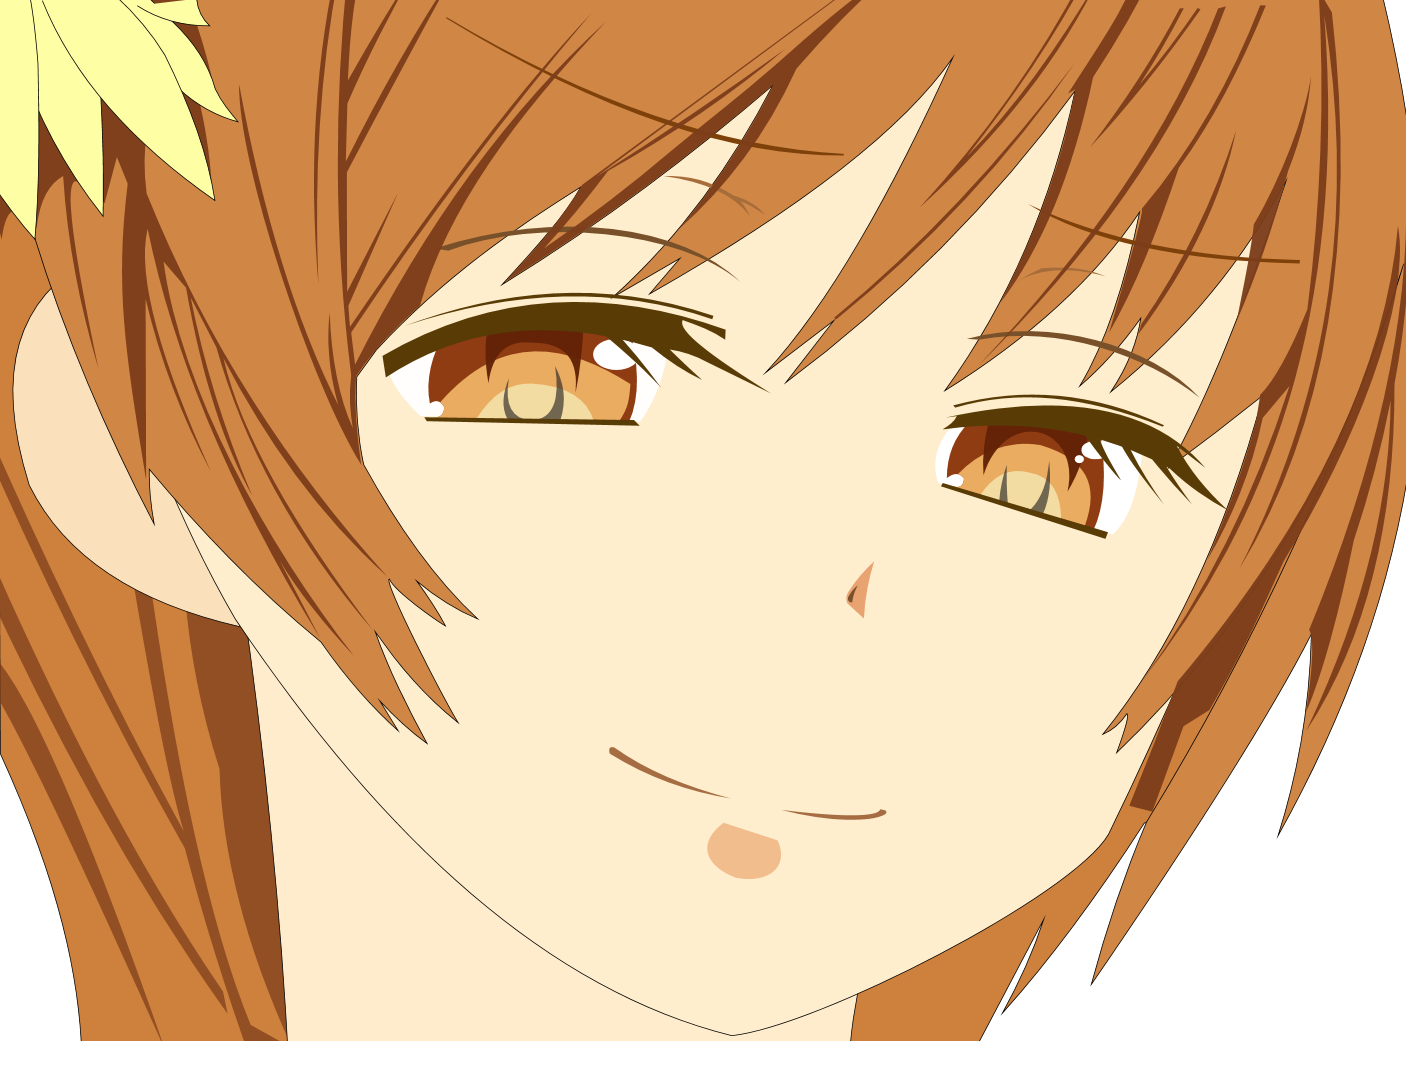
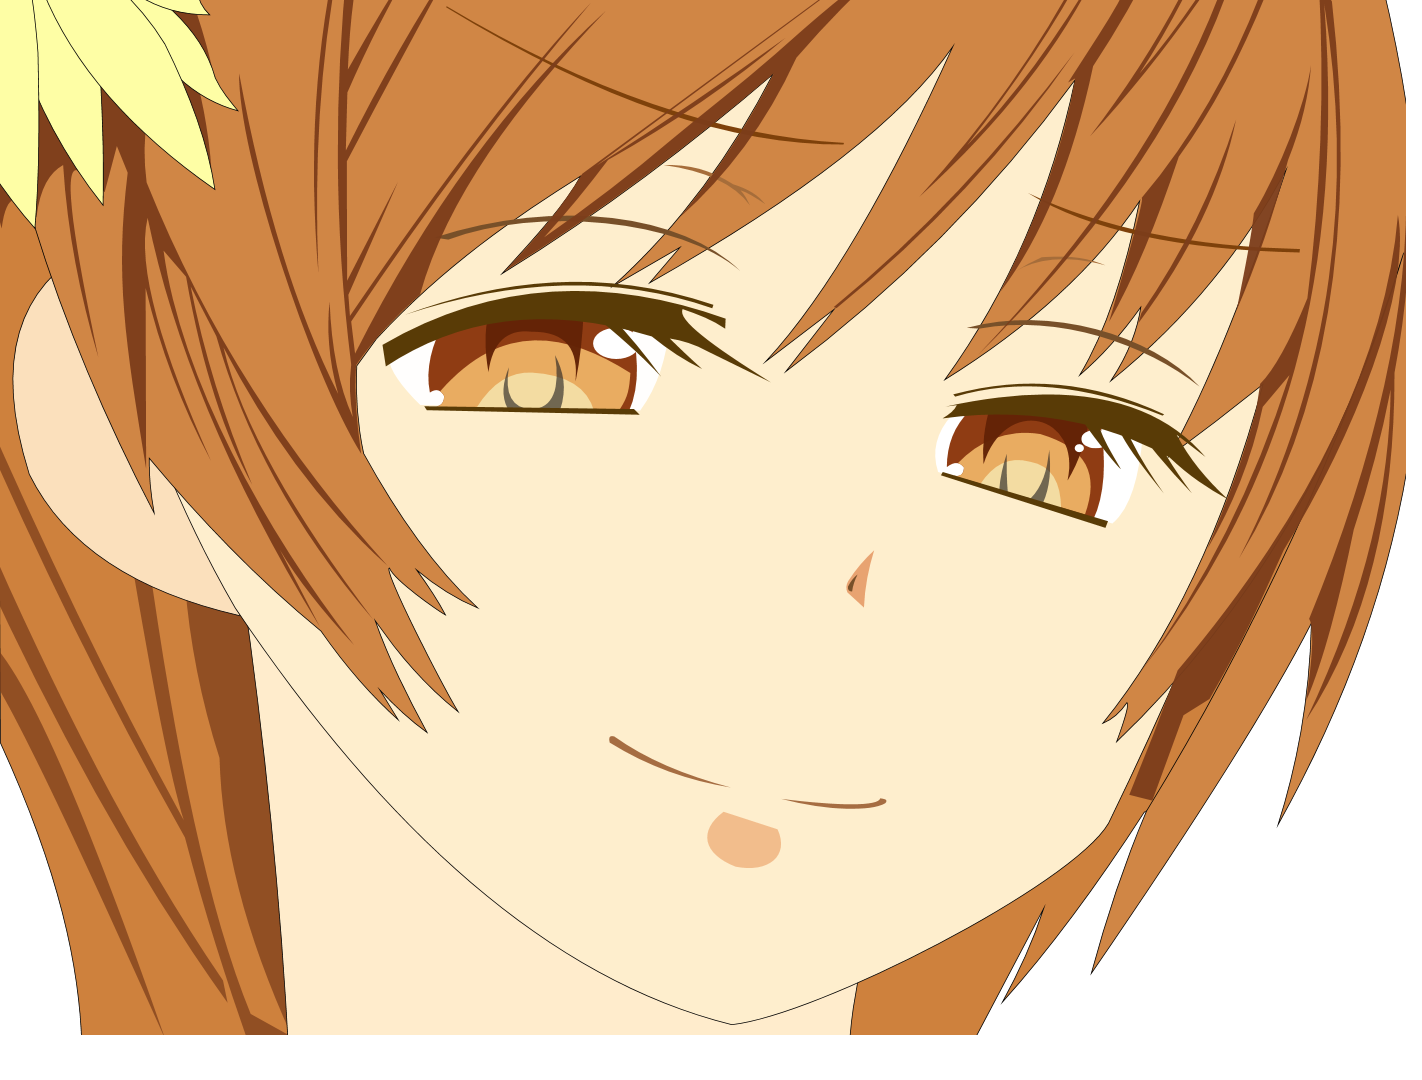
微調整

diff --git a/Marry/MainWindow.xaml b/Marry/MainWindow.xaml
@@ -2,12 +2,11 @@
         xmlns="http://schemas.microsoft.com/winfx/2006/xaml/presentation"
         xmlns:x="http://schemas.microsoft.com/winfx/2006/xaml"
         xmlns:d="http://schemas.microsoft.com/expression/blend/2008" xmlns:mc="http://schemas.openxmlformats.org/markup-compatibility/2006" mc:Ignorable="d" x:Class="Marry.MainWindow"
-        Title="MainWindow" Height="1080" Width="1422">
+        Title="MainWindow" Height="1074" Width="1422">
     <Grid >
         <Grid Name="target" Height="1080" Width="1422" >
-            <Viewbox Height="1080">
+            <Viewbox Height="1080" Margin="0,-22,0,0">
                 <Grid>
-                    <Image HorizontalAlignment="Left"  VerticalAlignment="Top" Source="Assets/2747002i.jpg" Margin="0,5,0,0" d:IsHidden="True" Visibility="Collapsed" />
                     <Path Data="M1783.4996,65.5 L1795.4996,227.5 C1872.2229,229.51108 1790.702,750.72436 1688.9996,752.5 1701.032,764.75923 1500.5743,1133.8345 1488.1667,1125.8333 1425.3313,1223.041 1363.8642,1305.9208 1303.5,1373.1667 1325.0952,1333.8257 1343.6212,1293.1633 1357.5,1250.5 L1262.8345,1430.1684 105.83448,1428.1684 C102.81981,1326.7681 76.486202,1202.9486 0,1036 L-3.4999993,373.5 -4.4999991,190.5" Fill="#FFCE813D" HorizontalAlignment="Left" Height="1365.668" Margin="-4.5,2.5,0,-21.168" Stretch="Fill" Stroke="Black" VerticalAlignment="Top" Width="1831.267"/>
                     <Path x:Name="kage5" Data="M-28,525 C55.649302,715.53491 143.456,900.21532 239,1074 222.13732,1020.8153 199.78655,907.23084 168.5,721.5 L191,720 C228.14599,987.34501 272.40755,1195.4888 326,1326 L380,1356 C318.05,1220.3281 288.50713,1100.2711 285.5,993 261.38666,918.01094 246.34607,842.01545 240.5,765 L347,810 405.5,1393.5 324.5,1368 C294.7076,1282.844 266.06482,1194.2604 240.5,1096.5 138.77223,916.61978 48.188693,731.16102 -34,541.5 L-25,688.5 C71.624525,909.44153 174.418,1113.4855 290,1282.5 L296,1311.6667 C172.06963,1138.3792 66.762777,941.68851 -23,747 L-25,831 C29.044623,863.98272 115.12638,1073.4939 215,1359 112.41928,1130.7921 21.29851,931.54094 -22,870" Fill="#BC7C3D1A" HorizontalAlignment="Left" Height="868.5" Margin="-34,525,0,-46.5" Stretch="Fill" VerticalAlignment="Top" Width="439.5"/>
                     <Path x:Name="kubi" Data="M314,827 C343.94023,1034.142 364.76509,1241.3078 375.5,1448.5 L1103.5,1452.5 C1105.5279,1352.2483 1133.9601,1271.5386 1157.5,1187.5" Fill="#FFFFECCC" HorizontalAlignment="Left" Height="626.5" Margin="314,764,0,0" Stretch="Fill" Stroke="Black" VerticalAlignment="Top" Width="844.5"/>
@@ -56,7 +55,7 @@
                 </Grid>
             </Viewbox>
          </Grid>
-        <Button Content="Button" HorizontalAlignment="Left" Margin="10,0,0,0" VerticalAlignment="Top" Width="202" Height="97" Click="Button_Click"/>
+        <Button Content="Button" HorizontalAlignment="Left" Margin="0,10,0,0" VerticalAlignment="Top" Width="202" Height="97" Click="Button_Click"/>
 
     </Grid>
 </Window>

diff --git a/Marry/obj/Debug/MainWindow.g.cs b/Marry/obj/Debug/MainWindow.g.cs
@@ -1,4 +1,4 @@
-#pragma checksum "..\..\MainWindow.xaml" "{406ea660-64cf-4c82-b6f0-42d48172a799}" "4E7B0F18C913A10FDB73803DD9822135"
+#pragma checksum "..\..\MainWindow.xaml" "{406ea660-64cf-4c82-b6f0-42d48172a799}" "78974391E74DD0427351FB83A274458B"
 //------------------------------------------------------------------------------
 // <auto-generated>
 //     このコードはツールによって生成されました。
@@ -48,7 +48,7 @@ namespace Marry {
         #line hidden
         
         
-        #line 12 "..\..\MainWindow.xaml"
+        #line 11 "..\..\MainWindow.xaml"
         [System.Diagnostics.CodeAnalysis.SuppressMessageAttribute("Microsoft.Performance", "CA1823:AvoidUnusedPrivateFields")]
         internal System.Windows.Shapes.Path kage5;
         
@@ -56,7 +56,7 @@ namespace Marry {
         #line hidden
         
         
-        #line 13 "..\..\MainWindow.xaml"
+        #line 12 "..\..\MainWindow.xaml"
         [System.Diagnostics.CodeAnalysis.SuppressMessageAttribute("Microsoft.Performance", "CA1823:AvoidUnusedPrivateFields")]
         internal System.Windows.Shapes.Path kubi;
         
@@ -64,7 +64,7 @@ namespace Marry {
         #line hidden
         
         
-        #line 14 "..\..\MainWindow.xaml"
+        #line 13 "..\..\MainWindow.xaml"
         [System.Diagnostics.CodeAnalysis.SuppressMessageAttribute("Microsoft.Performance", "CA1823:AvoidUnusedPrivateFields")]
         internal System.Windows.Shapes.Path mimi;
         
@@ -72,7 +72,7 @@ namespace Marry {
         #line hidden
         
         
-        #line 15 "..\..\MainWindow.xaml"
+        #line 14 "..\..\MainWindow.xaml"
         [System.Diagnostics.CodeAnalysis.SuppressMessageAttribute("Microsoft.Performance", "CA1823:AvoidUnusedPrivateFields")]
         internal System.Windows.Shapes.Path einkaku;
         
@@ -80,7 +80,7 @@ namespace Marry {
         #line hidden
         
         
-        #line 16 "..\..\MainWindow.xaml"
+        #line 15 "..\..\MainWindow.xaml"
         [System.Diagnostics.CodeAnalysis.SuppressMessageAttribute("Microsoft.Performance", "CA1823:AvoidUnusedPrivateFields")]
         internal System.Windows.Shapes.Path maegami;
         
@@ -88,7 +88,7 @@ namespace Marry {
         #line hidden
         
         
-        #line 17 "..\..\MainWindow.xaml"
+        #line 16 "..\..\MainWindow.xaml"
         [System.Diagnostics.CodeAnalysis.SuppressMessageAttribute("Microsoft.Performance", "CA1823:AvoidUnusedPrivateFields")]
         internal System.Windows.Shapes.Path kage;
         
@@ -96,7 +96,7 @@ namespace Marry {
         #line hidden
         
         
-        #line 18 "..\..\MainWindow.xaml"
+        #line 17 "..\..\MainWindow.xaml"
         [System.Diagnostics.CodeAnalysis.SuppressMessageAttribute("Microsoft.Performance", "CA1823:AvoidUnusedPrivateFields")]
         internal System.Windows.Shapes.Path kamidome1;
         
@@ -104,7 +104,7 @@ namespace Marry {
         #line hidden
         
         
-        #line 19 "..\..\MainWindow.xaml"
+        #line 18 "..\..\MainWindow.xaml"
         [System.Diagnostics.CodeAnalysis.SuppressMessageAttribute("Microsoft.Performance", "CA1823:AvoidUnusedPrivateFields")]
         internal System.Windows.Shapes.Path kamidome2;
         
@@ -112,7 +112,7 @@ namespace Marry {
         #line hidden
         
         
-        #line 20 "..\..\MainWindow.xaml"
+        #line 19 "..\..\MainWindow.xaml"
         [System.Diagnostics.CodeAnalysis.SuppressMessageAttribute("Microsoft.Performance", "CA1823:AvoidUnusedPrivateFields")]
         internal System.Windows.Shapes.Path kamidome3;
         
@@ -120,7 +120,7 @@ namespace Marry {
         #line hidden
         
         
-        #line 21 "..\..\MainWindow.xaml"
+        #line 20 "..\..\MainWindow.xaml"
         [System.Diagnostics.CodeAnalysis.SuppressMessageAttribute("Microsoft.Performance", "CA1823:AvoidUnusedPrivateFields")]
         internal System.Windows.Shapes.Path kamidome4;
         
@@ -128,7 +128,7 @@ namespace Marry {
         #line hidden
         
         
-        #line 22 "..\..\MainWindow.xaml"
+        #line 21 "..\..\MainWindow.xaml"
         [System.Diagnostics.CodeAnalysis.SuppressMessageAttribute("Microsoft.Performance", "CA1823:AvoidUnusedPrivateFields")]
         internal System.Windows.Shapes.Path kamidome5;
         
@@ -136,7 +136,7 @@ namespace Marry {
         #line hidden
         
         
-        #line 23 "..\..\MainWindow.xaml"
+        #line 22 "..\..\MainWindow.xaml"
         [System.Diagnostics.CodeAnalysis.SuppressMessageAttribute("Microsoft.Performance", "CA1823:AvoidUnusedPrivateFields")]
         internal System.Windows.Shapes.Path sirome;
         
@@ -144,7 +144,7 @@ namespace Marry {
         #line hidden
         
         
-        #line 24 "..\..\MainWindow.xaml"
+        #line 23 "..\..\MainWindow.xaml"
         [System.Diagnostics.CodeAnalysis.SuppressMessageAttribute("Microsoft.Performance", "CA1823:AvoidUnusedPrivateFields")]
         internal System.Windows.Shapes.Path kurome;
         
@@ -152,7 +152,7 @@ namespace Marry {
         #line hidden
         
         
-        #line 28 "..\..\MainWindow.xaml"
+        #line 27 "..\..\MainWindow.xaml"
         [System.Diagnostics.CodeAnalysis.SuppressMessageAttribute("Microsoft.Performance", "CA1823:AvoidUnusedPrivateFields")]
         internal System.Windows.Shapes.Path kurome1;
         
@@ -160,7 +160,7 @@ namespace Marry {
         #line hidden
         
         
-        #line 29 "..\..\MainWindow.xaml"
+        #line 28 "..\..\MainWindow.xaml"
         [System.Diagnostics.CodeAnalysis.SuppressMessageAttribute("Microsoft.Performance", "CA1823:AvoidUnusedPrivateFields")]
         internal System.Windows.Shapes.Path kurome2;
         
@@ -168,7 +168,7 @@ namespace Marry {
         #line hidden
         
         
-        #line 30 "..\..\MainWindow.xaml"
+        #line 29 "..\..\MainWindow.xaml"
         [System.Diagnostics.CodeAnalysis.SuppressMessageAttribute("Microsoft.Performance", "CA1823:AvoidUnusedPrivateFields")]
         internal System.Windows.Shapes.Path mabua;
         
@@ -176,7 +176,7 @@ namespace Marry {
         #line hidden
         
         
-        #line 31 "..\..\MainWindow.xaml"
+        #line 30 "..\..\MainWindow.xaml"
         [System.Diagnostics.CodeAnalysis.SuppressMessageAttribute("Microsoft.Performance", "CA1823:AvoidUnusedPrivateFields")]
         internal System.Windows.Shapes.Path mabuta;
         
@@ -184,7 +184,7 @@ namespace Marry {
         #line hidden
         
         
-        #line 32 "..\..\MainWindow.xaml"
+        #line 31 "..\..\MainWindow.xaml"
         [System.Diagnostics.CodeAnalysis.SuppressMessageAttribute("Microsoft.Performance", "CA1823:AvoidUnusedPrivateFields")]
         internal System.Windows.Shapes.Path mabuta1;
         
@@ -192,7 +192,7 @@ namespace Marry {
         #line hidden
         
         
-        #line 33 "..\..\MainWindow.xaml"
+        #line 32 "..\..\MainWindow.xaml"
         [System.Diagnostics.CodeAnalysis.SuppressMessageAttribute("Microsoft.Performance", "CA1823:AvoidUnusedPrivateFields")]
         internal System.Windows.Shapes.Path sirome2;
         
@@ -200,7 +200,7 @@ namespace Marry {
         #line hidden
         
         
-        #line 34 "..\..\MainWindow.xaml"
+        #line 33 "..\..\MainWindow.xaml"
         [System.Diagnostics.CodeAnalysis.SuppressMessageAttribute("Microsoft.Performance", "CA1823:AvoidUnusedPrivateFields")]
         internal System.Windows.Shapes.Path kurome3;
         
@@ -302,7 +302,7 @@ namespace Marry {
             return;
             case 22:
             
-            #line 59 "..\..\MainWindow.xaml"
+            #line 58 "..\..\MainWindow.xaml"
             ((System.Windows.Controls.Button)(target)).Click += new System.Windows.RoutedEventHandler(this.Button_Click);
             
             #line default
